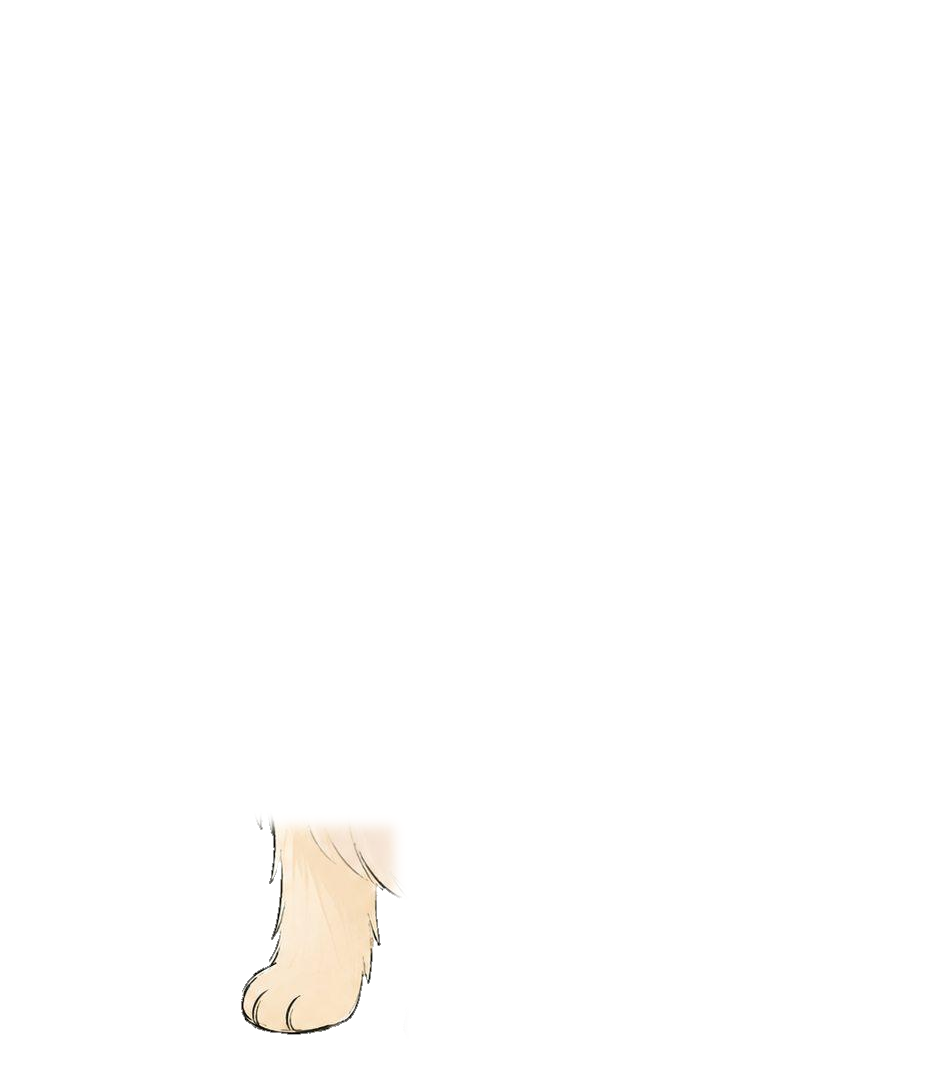
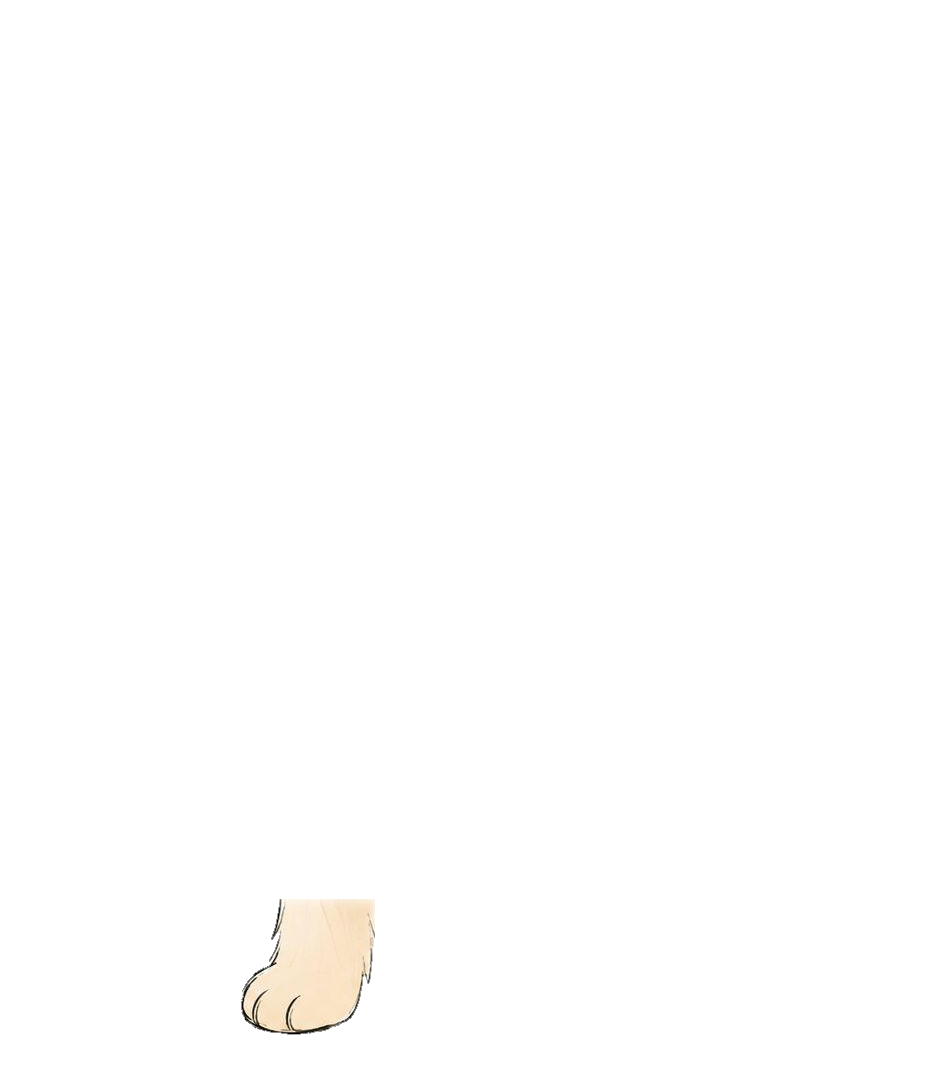
Isolate each paw during walking animation

Changed region(s): [[0.2747, 0.771, 0.4274, 0.8944]]

diff --git a/tools/cut_layers.py b/tools/cut_layers.py
@@ -7,7 +7,8 @@
 1. 所有切口 mask 高斯羽化 sigma=6（≈15px 过渡带），不再用 1.2~1.5 的硬边
 2. head 层在领口切线以下多保留 45px（带着一点脖子毛转），缝藏进毛里
 3. patch_neck 加大：沿 head 边界外扩 14px + 向下 22px，覆盖 ±3° 摆头扫过的扇区
-4. 腿件上端保留段 cut-110（原 cut-70），左右外扩 25px 压住 body 挖洞的羽化边
+4. 腿件只在转轴上方保留 38px 隐藏搭接，并全程锁在各自脚掌边界内；
+   旧版向上抓 110px/左右外扩会带走胸毛和邻脚，旋转后露成“分脚趾”
 5. body 挖洞洞边同样 sigma=6 羽化
 6. 所有补丁颜色改用「遮罩加权高斯模糊原图」（sigma=10 的局部渐变色），不再是单一中位色
 """
@@ -94,10 +95,11 @@ hole_tail = ndi.gaussian_filter(tail_bin.astype(np.float32), SIG)
 
 # ---- 四条腿 ----
 LEGS = {
-  'leg_FL': dict(x0=385, x1=568, cut=992, pivot=(490, 988), px=(445, 540)),   # 前近（画面左）
-  'leg_FR': dict(x0=568, x1=740, cut=985, pivot=(650, 982), px=(605, 685)),   # 前远
-  'leg_BR': dict(x0=765, x1=972, cut=958, pivot=(855, 955), px=(815, 895)),   # 后远
-  'leg_BL': dict(x0=972, x1=1190, cut=945, pivot=(1085, 942), px=(990, 1130)),  # 后近（大毛腿）
+  # x 边界按源图四只脚掌之间的空隙划分；每个脚掌只属于一条腿。
+  'leg_FL': dict(x0=380, x1=575, cut=992, pivot=(490, 988)),   # 前近（画面左）
+  'leg_FR': dict(x0=575, x1=740, cut=985, pivot=(650, 982)),   # 前远
+  'leg_BR': dict(x0=750, x1=895, cut=958, pivot=(840, 955)),   # 后远（内侧小脚）
+  'leg_BL': dict(x0=895, x1=1045, cut=945, pivot=(965, 942)),  # 后近（画面右大毛腿）
 }
 CX0, CY0, CX1, CY1 = 200, 55, 1150, 1125   # 950 x 1070
 
@@ -105,6 +107,21 @@ def rect_mask(x0, y0, x1, y1, sig):
     m = np.zeros((H, W), np.float32)
     m[max(y0, 0):min(y1, H), max(x0, 0):min(x1, W)] = 1
     return ndi.gaussian_filter(m, sig) if sig else m
+
+def tapered_leg_mask(x0, x1, cut, sig):
+    """腿根留遮缝余量，脚掌段严格独占，不能吃进相邻脚的像素。"""
+    # 转轴就在 cut 附近，body 会盖住它上方；只需要很短的隐藏搭接。
+    # 旧版向上抓 110px，会把胸毛/邻腿也收进活动层，摆动后露成鬼影。
+    top = cut - 38
+    mask = rect_mask(x0, top, x1, H, sig)
+    # Gaussian feathering also grows *outward*. Below the pivot that would
+    # quietly re-import a neighbour's toe by a few pixels, recreating the bug
+    # this tapered mask is meant to prevent. Keep feathering inside the limb,
+    # but make ownership exclusive outside x0..x1 in the visible paw section.
+    mask[:top, :] = 0
+    mask[:, :x0] = 0
+    mask[:, x1:] = 0
+    return mask
 
 def save_rgba(name, rgb, alpha):
     img = np.dstack([rgb.astype(np.uint8), (np.clip(alpha, 0, 1) * 255).astype(np.uint8)])
@@ -115,11 +132,12 @@ patch_legs_a = np.zeros((H, W), np.float32)
 
 for nm, L in LEGS.items():
     hole = rect_mask(L['x0'], L['cut'], L['x1'], 1260, SIG)
-    piece = rect_mask(L['x0'] - GROW, L['cut'] - 110, L['x1'] + GROW, 1260, SIG)
+    piece = tapered_leg_mask(L['x0'], L['x1'], L['cut'], SIG)
     save_rgba(nm, RGB, ALPHA * piece)
     body_alpha *= np.clip(1 - hole, 0, 1)
-    # 补丁：洞口上下大范围，限制在实心剪影内，颜色稍后统一用 BLUR
-    pm = rect_mask(L['x0'], L['cut'] - 55, L['x1'], L['cut'] + 85, SIG) * solid
+    # 补丁只填腿根洞口。旧版一路延伸到 cut+85，等于在活动腿后面又
+    # 留了一截静止脚掌；腿抬起时那截会露成分叉/鬼影。
+    pm = rect_mask(L['x0'], L['cut'] - 55, L['x1'], L['cut'] + 22, SIG) * solid
     patch_legs_a = np.maximum(patch_legs_a, pm)
     print(nm, 'pivot%%=(%.2f%%, %.2f%%)' % ((L['pivot'][0] - CX0) / 9.5, (L['pivot'][1] - CY0) / 10.7))
 

diff --git a/cookie_pet.py b/cookie_pet.py
@@ -202,10 +202,10 @@ class CookieView(AppKit.NSView):
             return (x + w * px, y + h * py)
 
         swing = math.sin(gait_phase * math.tau) if walking else 0.0
-        # The cut-out legs include a few shared edge pixels around neighbouring
-        # paws.  Rotating a leg past neutral drags those pixels across a planted
-        # paw and makes the toes appear to fork.  Each diagonal pair now swings
-        # only while airborne and returns exactly to the source pose for contact.
+        # Each diagonal pair swings only while airborne and returns exactly to
+        # the source pose for contact.  The asset pipeline also gives every paw
+        # exclusive pixels below its pivot, so rotation cannot tear a shared
+        # edge into a second toe.
         pair_a_lift = max(0.0, swing)
         pair_b_lift = max(0.0, -swing)
         tail_swing = (-9.0 * swing) if walking else (3.2 * math.sin(gait_phase * math.tau * .42))
@@ -217,9 +217,9 @@ class CookieView(AppKit.NSView):
             # Original art faces left. Negative rotation reaches a foreleg
             # forward; positive rotation lets the diagonal hind leg push back.
             # Opposite signs make the trot readable at only ~70 px wide.
-            ("leg_BR.png", 22.0 * pair_a_lift, pivot(.690, .841)),
+            ("leg_BR.png", 22.0 * pair_a_lift, pivot(.674, .841)),
             ("leg_FR.png", -28.0 * pair_b_lift, pivot(.474, .866)),
-            ("leg_BL.png", 22.0 * pair_b_lift, pivot(.932, .829)),
+            ("leg_BL.png", 22.0 * pair_b_lift, pivot(.805, .829)),
             ("leg_FL.png", -28.0 * pair_a_lift, pivot(.305, .872)),
             ("body.png", 0, None),
             ("patch_neck.png", 0, None),

diff --git a/README.md b/README.md
@@ -52,6 +52,8 @@ assets_compact/         190×214 运行时图层
 
 双击 `重新生成图片.command` 会创建隔离的 Python 环境、安装 Pillow / NumPy / SciPy，并依次执行三步。源图尺寸、构图或狗的位置发生变化时，需要同步调整 `cut_layers.py` 里的多边形、腿区和 pivot；这部分是针对 Cookie 的图手工校准的，不是任意照片的一键 AI 抠图。
 
+四条腿的切片在转轴上方只保留很短的隐藏搭接，并始终锁在各自的 `x0..x1` 边界。若向上抓到胸毛或左右吃进邻脚，静止重组看不出问题，但转腿时会露出鬼影，表现成脚趾落地分叉。
+
 命令行方式：
 
 ```bash
